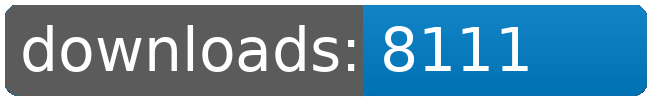
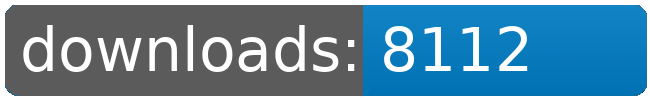
dl log written

Changed region(s): [[0.7692, 0.24, 0.8308, 0.69]]

diff --git a/README.md b/README.md
@@ -120,8 +120,8 @@
 		<td>8094</td>
 		<td>8101</td>
 		<td>8107</td>
-		<td>8111</td>
-		<td>+ 4</td>
+		<td>8112</td>
+		<td>+ 5</td>
 	</tr>
 	<tr>
 		<td>Zone.of.Control</td>
@@ -153,8 +153,8 @@
 		<td></td>
 		<td></td>
 		<td></td>
-		<td>68293</td>
-		<td>31</td>
+		<td>68294</td>
+		<td>32</td>
 	</tr>
 </table>
 </sub></sup>
@@ -234,8 +234,8 @@
 		<td>8094</td>
 		<td>8101</td>
 		<td>8107</td>
-		<td>8111</td>
-		<td>+ 4</td>
+		<td>8112</td>
+		<td>+ 5</td>
 	</tr>
 	<tr>
 		<td>Jaws</td>
@@ -311,8 +311,8 @@
 		<td></td>
 		<td></td>
 		<td></td>
-		<td>68293</td>
-		<td>31</td>
+		<td>68294</td>
+		<td>32</td>
 	</tr>
 </table>
 </sub></sup>
